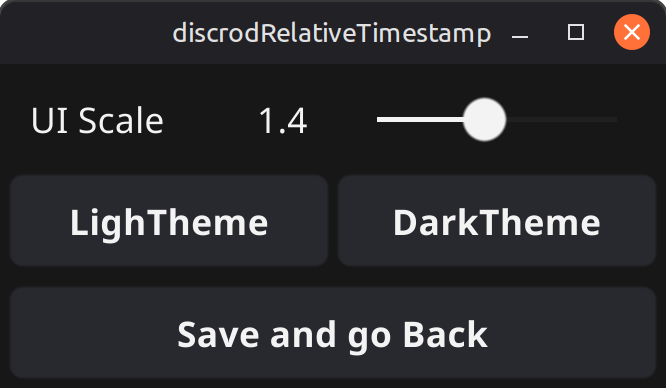
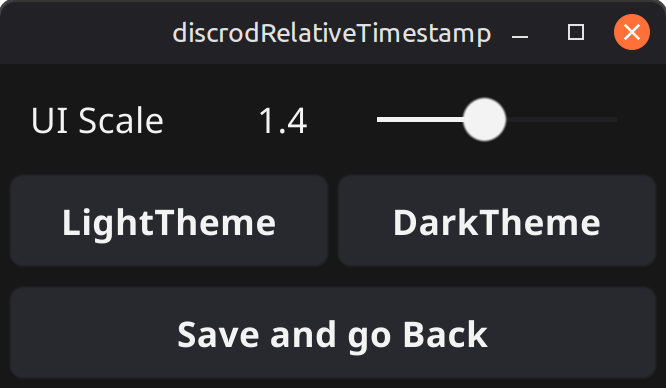
fix misspel+upd screenshot

Changed region(s): [[0.0901, 0.5258, 0.4204, 0.6495]]

diff --git a/internal/views/settingsView.go b/internal/views/settingsView.go
@@ -43,7 +43,7 @@ func SetSettingsView(w fyne.Window) {
 				slider_fyneScale),
 			container.NewGridWithColumns(
 				2,
-				widget.NewButton("LighTheme", func() {
+				widget.NewButton("LightTheme", func() {
 					fyne.CurrentApp().Preferences().SetInt(consts.PK_ThemeVariant, int(theme.VariantLight))
 					fyne.CurrentApp().Settings().SetTheme(
 						&customtheme.ForcedVariant{
